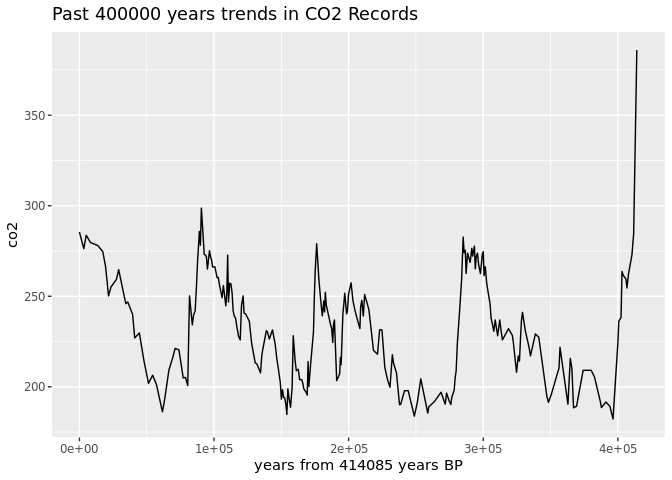
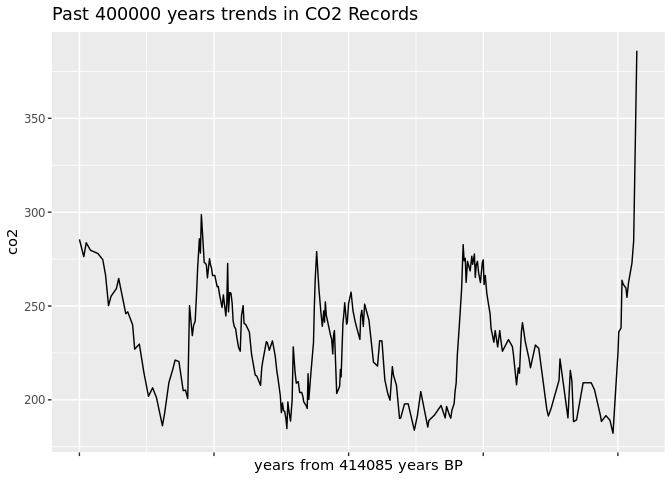
E5 update

diff --git a/assignment/climate.md b/assignment/climate.md
@@ -458,7 +458,7 @@ ArcticIce <- ArcticIce [ ,c('Date', 'Extent') ]
 ArcticIce
 ```
 
-    ## # A tibble: 14,742 × 2
+    ## # A tibble: 14,743 × 2
     ##    Date       Extent
     ##    <date>      <dbl>
     ##  1 NA           NA  
@@ -471,7 +471,7 @@ ArcticIce
     ##  8 1978-11-07   11.1
     ##  9 1978-11-09   11.2
     ## 10 1978-11-11   11.3
-    ## # ℹ 14,732 more rows
+    ## # ℹ 14,733 more rows
 
 ## Question 3:
 
@@ -617,7 +617,8 @@ Icecore_co2
 ``` r
 ggplot(Icecore_co2,aes(x=time))+
   geom_line(aes(y=co2))+
-  labs(x = "years from 414085 years BP", title = "Past 400000 years trends in CO2 Records")
+  labs(x = "years from 414085 years BP", title = "Past 400000 years trends in CO2 Records") +
+  theme(axis.text.x = element_blank())
 ```
 
 ![](climate_files/figure-gfm/unnamed-chunk-17-1.png)<!-- -->
